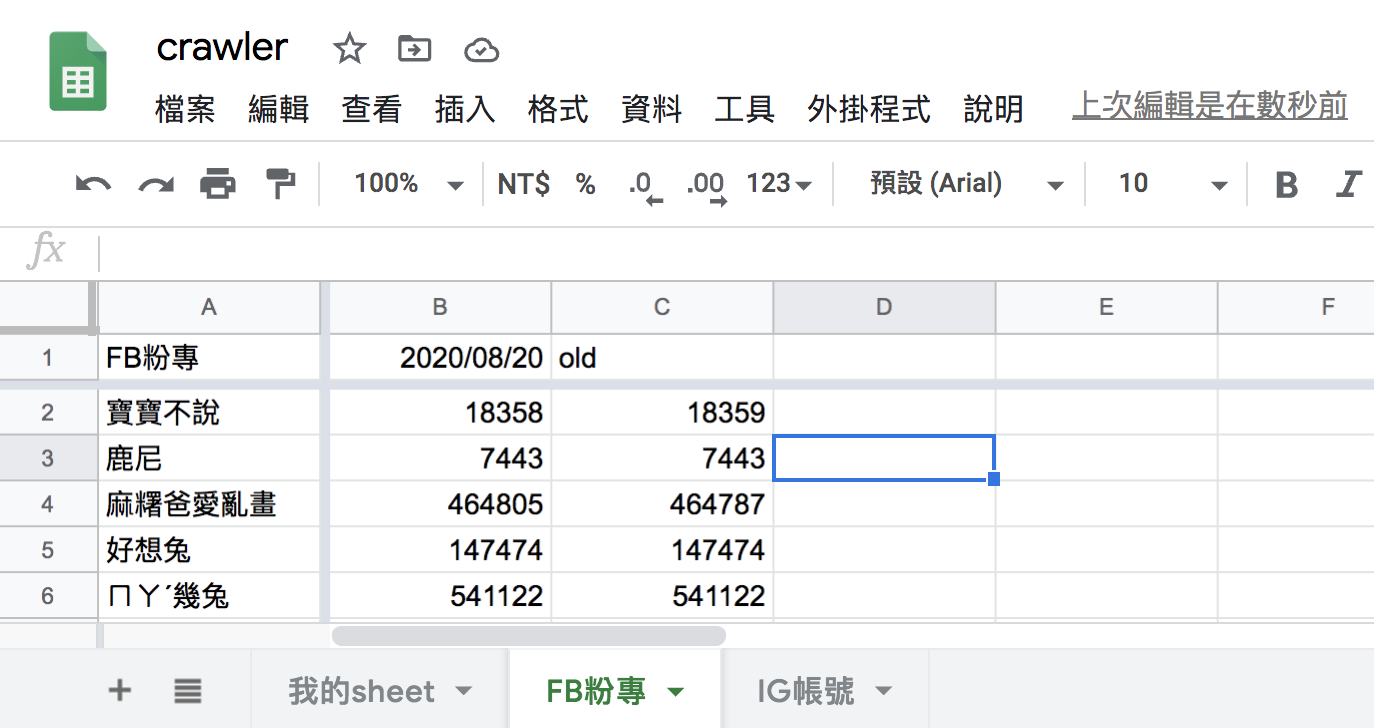
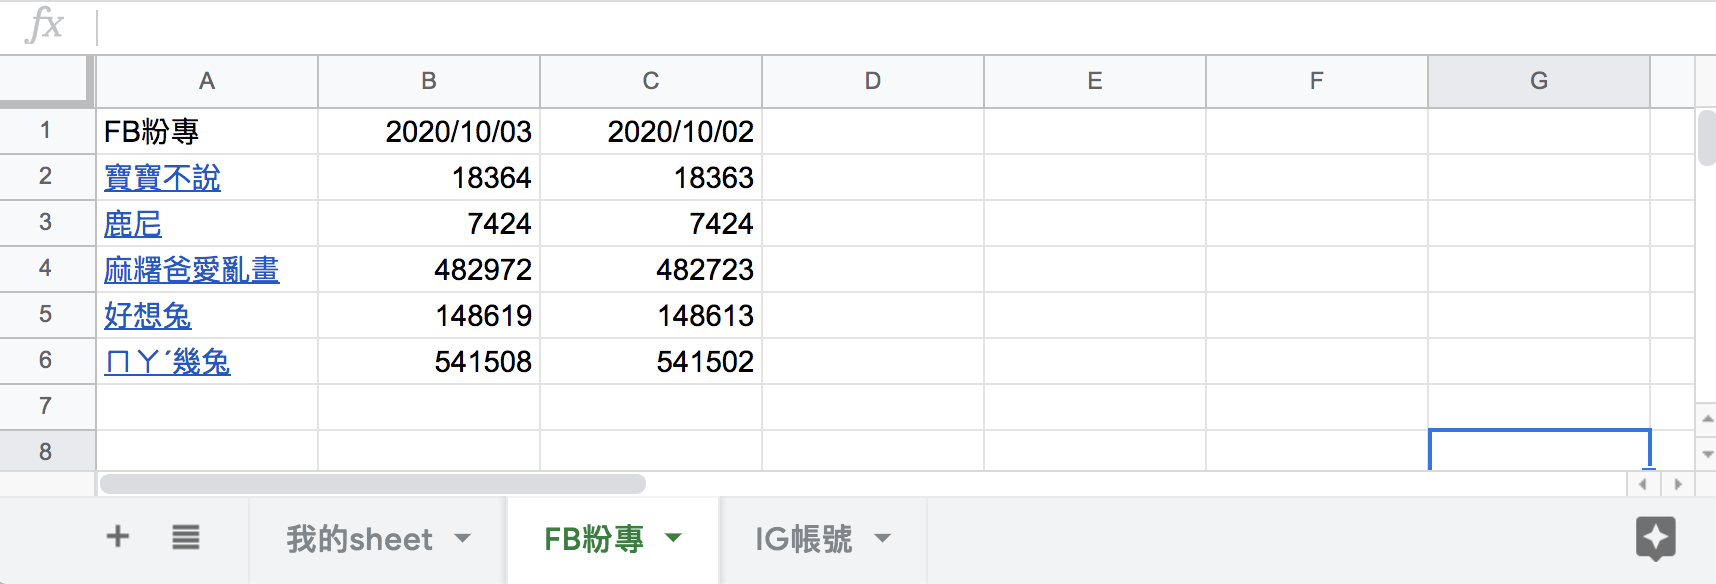
complete day22

Changed region(s): [[0.0, 0.0, 1.0, 0.9863], [0.5502, 0.9247, 0.6419, 0.9863]]

diff --git a/day22/README.md b/day22/README.md
@@ -1,19 +1,46 @@
 #### [回目錄](../README.md)
 ## Day22 Google Sheets-業主：我希望新資料插在最前面 & 談需求變更
 
-雖然截至上一篇我們已經完成了專案在Google sheet的基本需求，但是在給業主實際測試的時候常常會多出一些現實面會需要的功能  
+>在驗收階段你就知道一個好的需求規格書有多麼重要
 
->**筆者碎碎念**  
-對於這些開發過程中多出來的功能我一律列入**需求變更**，這塊就是我在[Day 1](/day1/README.md)提到需求規格的重要性，如果你一開始沒先說好需求規格，那麼之後追加的功能你很有可能會變成免費勞工，畢竟這沒有白紙黑字  
-
-回到今天業主要求的功能是倒敘插入追蹤資訊，簡單來說他希望我們是可以把最新的追蹤資訊插到粉專資訊的下一欄，實作步驟我拆解如下：
-1. 插入一個空白欄位
-2. 把空白欄位更新成最新的追蹤資訊
-
-
-插入一個空白欄位
+🏆 今日目標
 ----
-對於插入空白欄位的部分一樣先提供[官方的文件](https://developers.google.com/sheets/api/reference/rest/v4/spreadsheets/request#insertdimensionrequest)給大家，下面是我對這個功能的範例解說  
+#### 1. 了解驗收過程中需求規格書的重要性
+#### 2. 談需求變更
+#### 3. 將新的爬蟲資料寫到最前面，日期為由近而遠的排序
+3.1 插入一個空白欄位
+3.2 把空白欄位更新成最新的追蹤人數資訊
+
+----
+
+# 1. 了解驗收過程中需求規格書的重要性
+驗收的過程就是按造需求規格上的驗收項目一一測試，所以`如果沒有需求規格書或是需求規格書寫得太不完善，你在驗收的過程會一直被凹新功能`，而這些功能基本上只能忍氣吞聲吃下去，畢竟這是因為你在一開始沒談好規格的歷史業障，這就是我在[Day 1](/day1/README.md)提到需求規格書的重要性
+
+----
+
+# 2. 談需求變更
+反過來如果你需求規格寫得夠好，在驗收的階段你會有很多賺外快的機會，`因為大部分的客戶在驗收階段才想到他們實際上還需要哪些功能`
+對於這些多出來的功能我一律列入**需求變更**，因為這些需求並不在原合約內所以你可以`將客戶的新需求記錄下來依功能報價讓客戶自己決定需要新增哪些功能`
+根據個人經驗，在結案後你會發現這些多出來的`需求變更可能占總外包費的20%~40%不等`，所以各位在接案時千萬不要因為覺得麻煩沒有好好寫需求規格書啊！你這樣的做法完全在跟自己的錢包過不去，讓自己成為免費勞工。下面我用今天要完成的需求變更做舉例：
+
+**客戶**：我測試了幾天覺得爬蟲蠻穩定的，但最新的爬蟲資料都寫在最後面，這讓我要滑到最後面才知道最新資料，他能不能新資料都寫在最前面啊 `(客戶提出需求變更)`
+**我**：您的意思是要**將新的爬蟲資料寫到最前面，Google Sheet上呈現的是日期由近而遠的排序**嗎？ `(確認需求變更的邏輯)`
+**客戶**：對，麻煩了
+**我**：不過這項需求並不在原本的需求規格書上面，原本的需求規格書只提到**爬蟲日期為欄，粉專標題為列**，並沒提到排序方面的需求；經過評估這個功能需要額外的費用XXX，您可以接受嗎？ `(提出需求規格書上面的規格做佐證，並說明這個新功能需要加收多少費用)`
+**客戶**：恩...可以
+**我**：我把這項規則加到需求規格書的後面，您確認完後我就會開始實作 `(讓客戶確認規格及價格後在開始實作)`
+
+
+----
+
+# 3. 將新的爬蟲資料寫到最前面，日期為由近而遠的排序
+想要完成這個需求，我個人的解法是拆解成兩個步驟：
+1. 先在第二欄插入一個空白欄位
+2. 把空白欄位更新成最新的追蹤人數資訊
+
+### 3.1 插入一個空白欄位
+在Google Sheets中插入空白欄位的部分請參考[官方的文件](https://developers.google.com/sheets/api/reference/rest/v4/spreadsheets/request#insertdimensionrequest)，這裡有個個需要注意的點：
+* 我們觀察到 range 需要提供`sheet_id`，而呼叫他的`writeSheet`函式並沒有這個參數
 ```js
 async function insertEmptyCol (title, sheet_id, auth) {//插入空白欄位
   const sheets = google.sheets({ version: 'v4', auth });
@@ -43,49 +70,62 @@ async function insertEmptyCol (title, sheet_id, auth) {//插入空白欄位
   }
 }
 ```
-把空白欄位更新成最新的追蹤資訊
-------------------------
-這裡我們就有一些細節要做調整
-* 因為插入空白欄位(insertEmptyCol)這個函式需要用到用到sheetId的參數
-    1. updateGoogleSheets : 調整writeSheet函式傳入參數
+
+### 3.2 把空白欄位更新成最新的追蹤人數資訊
+根據上面提出的問題，我們需要對程式做如下調整
+* 因為`insertEmptyCol`這個函式需要用到用到 **sheetId** 的參數
+    1. `updateGoogleSheets`：調整`writeSheet`函式傳入參數改用`getFBIGSheet`回傳的sheets資料
         ```js
-        writeSheet(sheet.title, sheet.id, fb_result_array, auth)
+        const sheets = await getFBIGSheet(auth)//取得線上FB、IG的sheet資訊
+
+        // 寫入各自的Sheet
+        for (sheet of sheets) {
+          if (sheet.title === 'FB粉專') {
+            await writeSheet(sheet.title, sheet.id, fb_result_array, auth)
+          } else if (sheet.title === 'IG帳號') {
+            await writeSheet(sheet.title, sheet.id, ig_result_array, auth)
+          }
+        }
         ```
-    2. writeSheet : 移除廢棄函式(getLastCol)，並調整相應參數
-        1. 函數新增sheet_id參數
+    2. `writeSheet` : 
+        1. 函數`新增sheet_id`參數
             ```js
             async function writeSheet (title, sheet_id, result_array, auth)
             ```
-        2. 在寫入追蹤人數之前先插入空白欄位，將取得最後一欄函式刪除，且一並移除lastCol的參數
+        2. 在寫入追蹤人數之前先插入空白欄位`(insertEmptyCol)`，故將取得最後一欄相關函式`getLastCol`、`toColumnName`刪除，並移除`writeTrace`中lastCol的參數
             ```js
             // 插入空欄位
             await insertEmptyCol(title, sheet_id, auth)
             // 寫入追蹤人數
             await writeTrace(title, trace_array, auth)
             ```
-執行程式
-----
-在專案資料夾的終端機(Terminal)執行指令 **yarn start** 指令，看看線上的Google Sheets是否有正確插入第一欄呢?  
-  * 如果你在同一天測試，你可以把之前爬蟲日期改成old方便辨識
-  
-大家可以看看終端機輸出的資訊是否與Google Sheets上的資訊吻合(下圖)  
-![image](./article_img/terminal.png)  
-![image](./article_img/googlesheet.png)  
 
-專案原始碼
 ----
-完整的程式碼在[這裡](https://github.com/dean9703111/ithelp_30days/tree/master/day21)喔
-你可以整個專案clone下來  
-```
-git clone https://github.com/dean9703111/ithelp_30days/tree/master.git
-```
-如果你已經clone過了，那你每天pull就能取得更新的資料嚕  
-```
-git pull origin master
-cd day21
-yarn
-調整你.env檔填上 FB & IG 登入資訊、SPREADSHEET_ID
-在credentials資料夾放上自己的憑證
+
+🚀 執行程式
+----
+在專案資料夾的終端機(Terminal)執行指令
+```vim
 yarn start
 ```
+大家可以看看終端機輸出的資訊是否與Google Sheets第二欄的資訊符合～
+![image](./article_img/terminal.png)  
+![image](./article_img/googlesheet.png)  
+>如果你在同一天測試，你可以把之前爬蟲日期改成`old`方便辨識
+
+----
+
+ℹ 專案原始碼
+----
+* 今天的完整程式碼可以在[這裡](https://github.com/dean9703111/ithelp_30days/tree/master/day22)找到喔
+* 我也貼心地把昨天的把昨天的程式碼打包成[壓縮檔](https://github.com/dean9703111/ithelp_30days/raw/master/sampleCode/day21_sample_code.zip)，你可以用裡面乾淨的環境來實作今天Google Sheets的起手式喔
+    * 請記得在終端機下指令 **yarn** 才會把之前的套件安裝
+    * 要在tools/google_sheets資料夾放上自己的憑證
+    * 調整fanspages資料夾內目標爬蟲的粉專網址
+    * 調整.env檔
+        * 填上FB登入資訊
+        * 填上FB版本(classic/new)
+        * 填上IG登入資訊
+        * 填上SPREADSHEET_ID
+
 ### [Day23 Google Sheets-優化格式，滿足客戶需求 & 談使用者體驗](/day23/README.md)

diff --git a/day21/README.md b/day21/README.md
@@ -42,13 +42,13 @@
 很多時候客戶對於bug的陳述是很模糊的，所以你**需要與客戶溝通，引導他們說出自己的操作流程**，以今天發出的Bug做舉例：
 
 **客戶**：今天爬蟲資料寫入 Google Sheets表單時塞錯位置了！
-**我**：請問這個問題是今天突然發生的，還是過去幾天也發生過通樣的問題呢？（`釐清bug發生的時間點`）
+**我**：請問這個問題是今天突然發生的，還是過去幾天也發生過通樣的問題呢？ `(釐清bug發生的時間點)`
 **客戶**：是今天才發生的
-**我**：那今天你在跑爬蟲前有做過什麼調整嗎？ (`確認是什麼樣的操作導致bug`)
+**我**：那今天你在跑爬蟲前有做過什麼調整嗎？ `(確認是什麼樣的操作導致bug)`
 **客戶**：我在爬蟲的json檔裡面新增了幾個粉專，然後把Google Sheets上面一些沒有在維護的粉專給砍掉
-**我**：了解，我這邊會先重複一遍您的操作來釐清問題，最晚會在兩天後給您答覆 (`自己操作一遍確認有這個bug`)
+**我**：了解，我這邊會先重複一遍您的操作來釐清問題，最晚會在兩天後給您答覆 `(自己操作一遍確認有這個bug)`
 ===我是正在重現bug的分隔線===
-**我**：我這邊依照您的方式做了操作，確實遇到這個問題；這邊我提出一個解決方案，採用這個方案你新增的爬蟲粉專會寫入Google Sheets表單的最下面，且追蹤人數都會填入正確欄位，詳細邏輯你可以參考下方說明 (`自己提出解決方案，千萬別讓客戶天馬行空亂提`)
+**我**：我這邊依照您的方式做了操作，確實遇到這個問題；這邊我提出一個解決方案，採用這個方案你新增的爬蟲粉專會寫入Google Sheets表單的最下面，且追蹤人數都會填入正確欄位，詳細邏輯你可以參考下方說明 `(自己提出解決方案，千萬別讓客戶天馬行空亂提)`
 >* 導致錯誤發生的操作：
     1. 人工整理 Google Sheets粉專名稱的欄位：刪除、上下置換
     2. 調整爬蟲json內容：新增/刪除/上下置換
@@ -57,7 +57,7 @@
     2. 追蹤人數：以 **粉專名稱+粉專網址作為寫入追蹤人數欄位的判斷**
 
 **客戶**：好的先這樣做吧，你什麼時候能改好？
-**我**：預計三個工作天，如果提早完成會儘早與您聯繫 (`說一個你絕對能完成功能的時間，並表達積極性`)
+**我**：預計三個工作天，如果提早完成會儘早與您聯繫 `(說一個你絕對能完成功能的時間，並表達積極性)`
 
 ----
 
@@ -128,8 +128,8 @@ async function writeSheet (title, result_array, auth) {
   let online_title_array = await readTitle(title, auth)
   // 如果json檔有新增的粉專就補到最後面
   result_array.forEach(fanpage => {
-    if (!online_title_array.includes(`=HYPERLINK("${fanpage.url}","${fanpage.title}")`)) {
-      online_title_array.push(`=HYPERLINK("${fanpage.url}","${fanpage.title}")`)
+    if (!online_title_array.includes`(=HYPERLINK("${fanpage.url}","${fanpage.title}")))` {
+      online_title_array.push`(=HYPERLINK("${fanpage.url}","${fanpage.title}"))`
     }
   });
 
